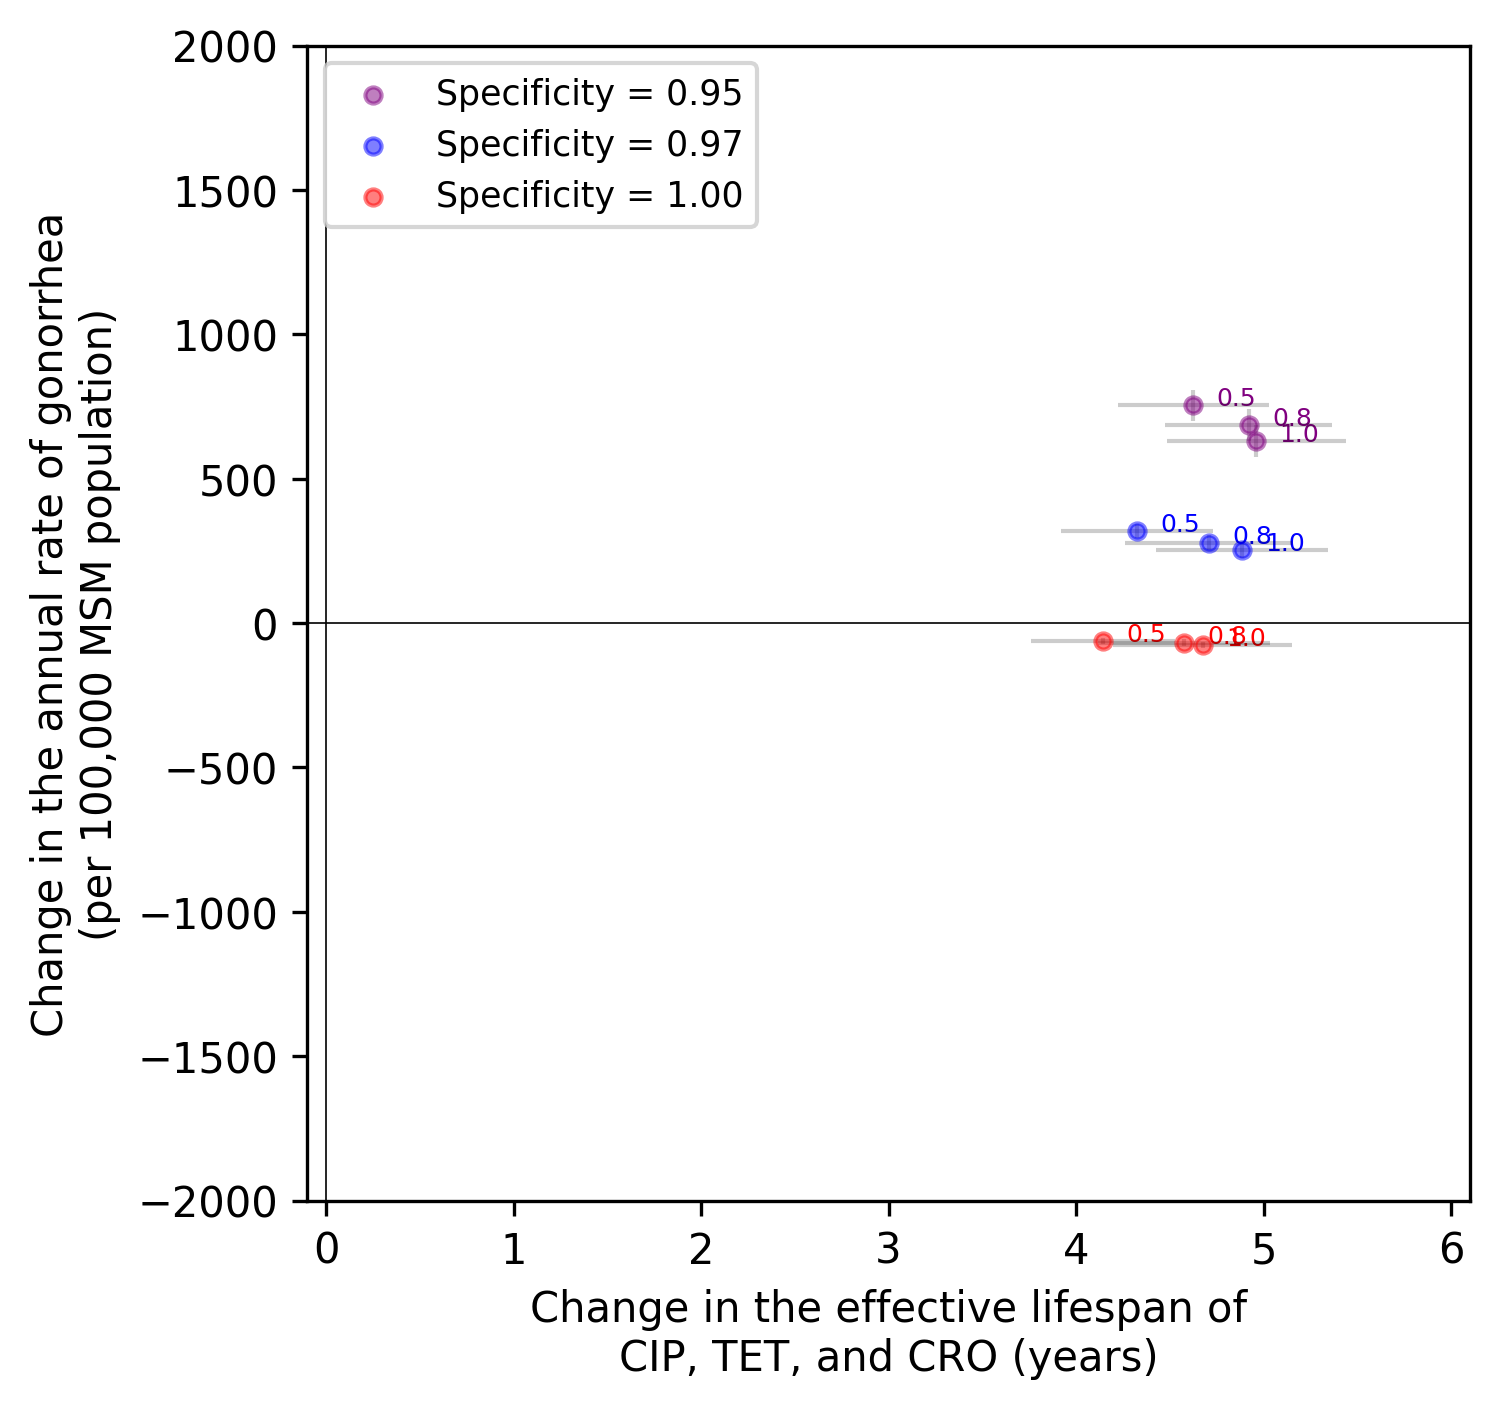
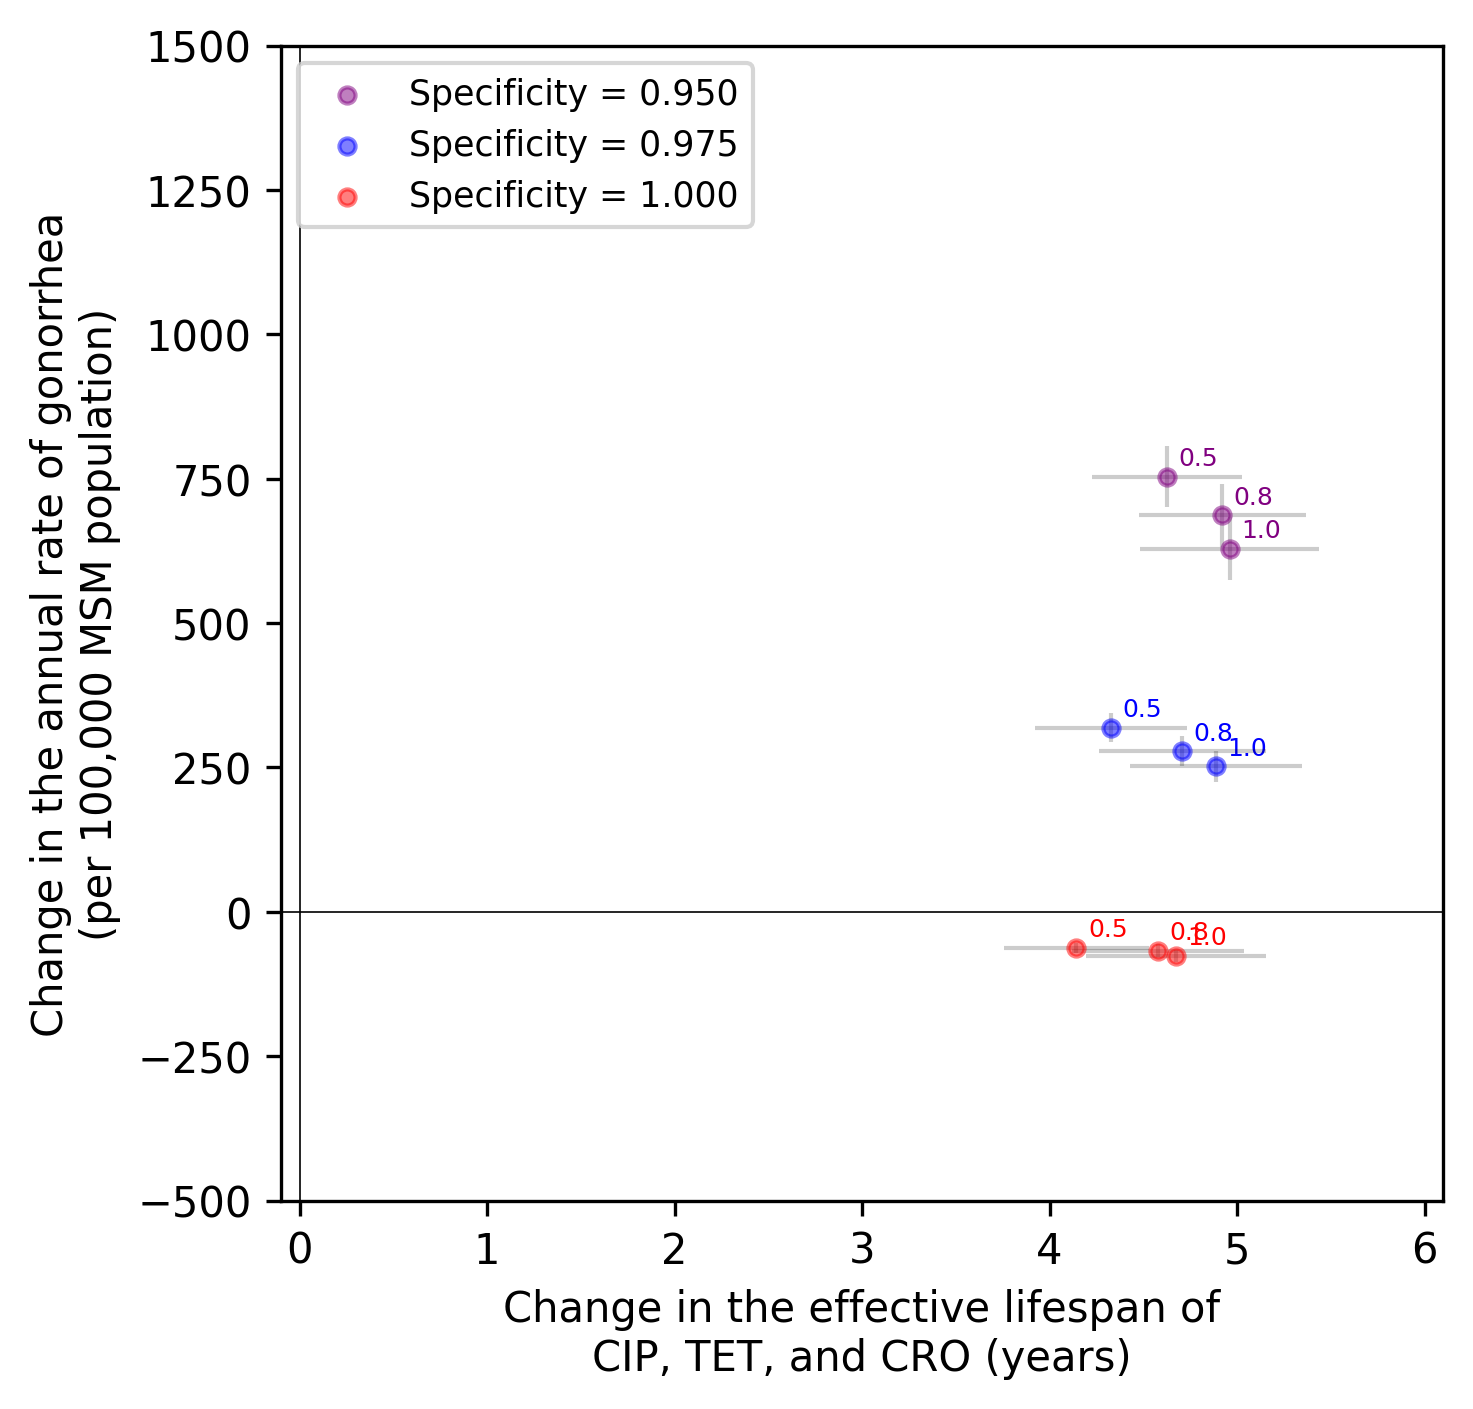
manuscript

diff --git a/analysis/PlotScenarios.py b/analysis/PlotScenarios.py
@@ -3,8 +3,10 @@ from model.Plots import plot_scenarios, get_scenarios_csv_filename_and_fig_filen
 
 IF_M_AVAILABLE_FOR_FIRST_TX = True
 TEST_COVERAGE = 0.75
-X_RANGE = [-0.1, 6.1]
-Y_RANGE = [-2000, 2000]
+X_RANGE_WITH_M = [-0.1, 6.1]
+Y_RANGE_WITH_M = [-500, 1500]
+X_RANGE_NO_M = [-0.1, 6.1]
+Y_RANGE_NO_M = [-4000, 500]
 
 
 def plot_scenarios_for_a_text_coverage(if_m_available_for_1st_tx, test_coverage):
@@ -15,12 +17,19 @@ def plot_scenarios_for_a_text_coverage(if_m_available_for_1st_tx, test_coverage)
         if_m_available_for_1st_tx=if_m_available_for_1st_tx,
         test_coverage=test_coverage)
 
+    if if_m_available_for_1st_tx:
+        x_range = X_RANGE_WITH_M
+        y_range = Y_RANGE_WITH_M
+    else:
+        x_range = X_RANGE_NO_M
+        y_range = Y_RANGE_NO_M
+
     plot_scenarios(
         csv_file_name=csv_file_name,
         fig_file_name=fig_file_name,
         test_coverage=test_coverage,
-        x_range=X_RANGE,
-        y_range=Y_RANGE)
+        x_range=x_range,
+        y_range=y_range)
 
 
 if __name__ == "__main__":

diff --git a/analysis/SimulateScenarios.py b/analysis/SimulateScenarios.py
@@ -2,7 +2,7 @@ import warnings
 
 import apace.Calibration as calib
 import model.Plots as P
-from analysis.PlotScenarios import X_RANGE, Y_RANGE
+from analysis.PlotScenarios import X_RANGE_WITH_M, Y_RANGE_WITH_M
 from apace.ScenarioSimulation import ScenarioSimulator
 from definitions import get_scenario_names, get_list_sens_spec_coverage, COVERAGE_VALUES
 from model.Model import build_model
@@ -62,8 +62,8 @@ def simulate_scenarios(if_m_available_for_1st_tx):
             csv_file_name=sets.folderToSaveScenarioAnalysis + '/simulated_scenarios.csv',
             fig_file_name=fig_file_name,
             test_coverage=c,
-            x_range=X_RANGE,
-            y_range=Y_RANGE)
+            x_range=X_RANGE_WITH_M,
+            y_range=Y_RANGE_WITH_M)
 
 
 if __name__ == "__main__":

diff --git a/model/Plots.py b/model/Plots.py
@@ -303,7 +303,7 @@ def plot_scenarios(csv_file_name, fig_file_name, test_coverage, x_range, y_range
 
     for i, spec in enumerate(SPE_VALUES):
         list_of_scenario_sets.append(S.SetOfScenarios(
-            name='Specificity = {:.2f}'.format(spec),
+            name='Specificity = {:.3f}'.format(spec),
             scenario_df=scenarios_df,
             color=COLORS[i],
             marker='o',
@@ -314,8 +314,8 @@ def plot_scenarios(csv_file_name, fig_file_name, test_coverage, x_range, y_range
             ],
             if_find_frontier=False,
             if_show_fitted_curve=False,
-            labels_shift_x=0.02,
-            labels_shift_y=0.00)
+            labels_shift_x=0.01,
+            labels_shift_y=0.01)
         )
 
     V.plot_sets_of_scenarios(
